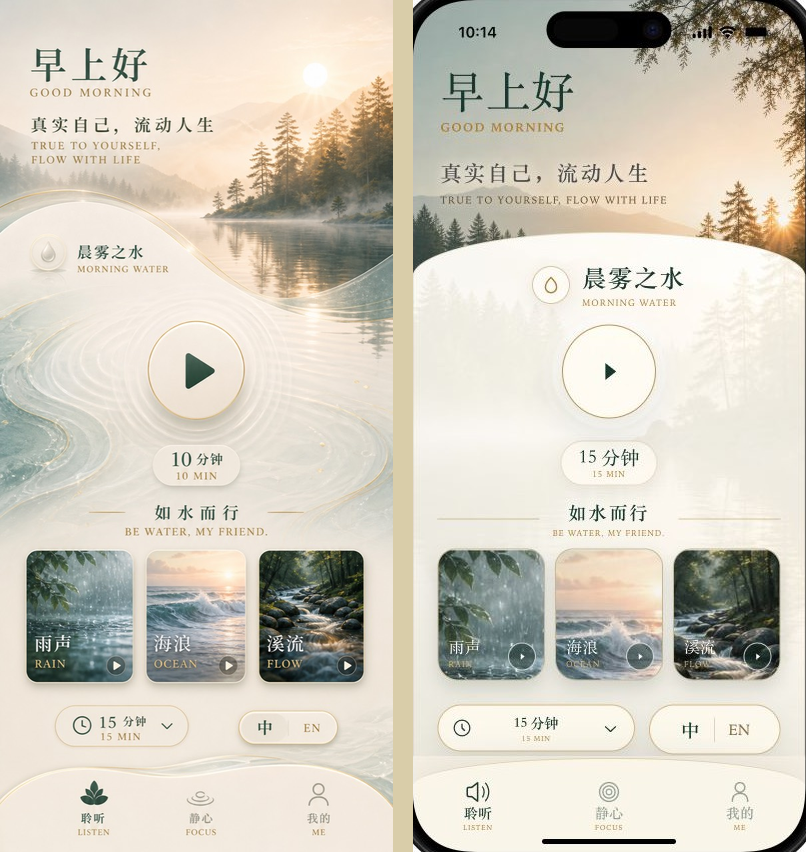
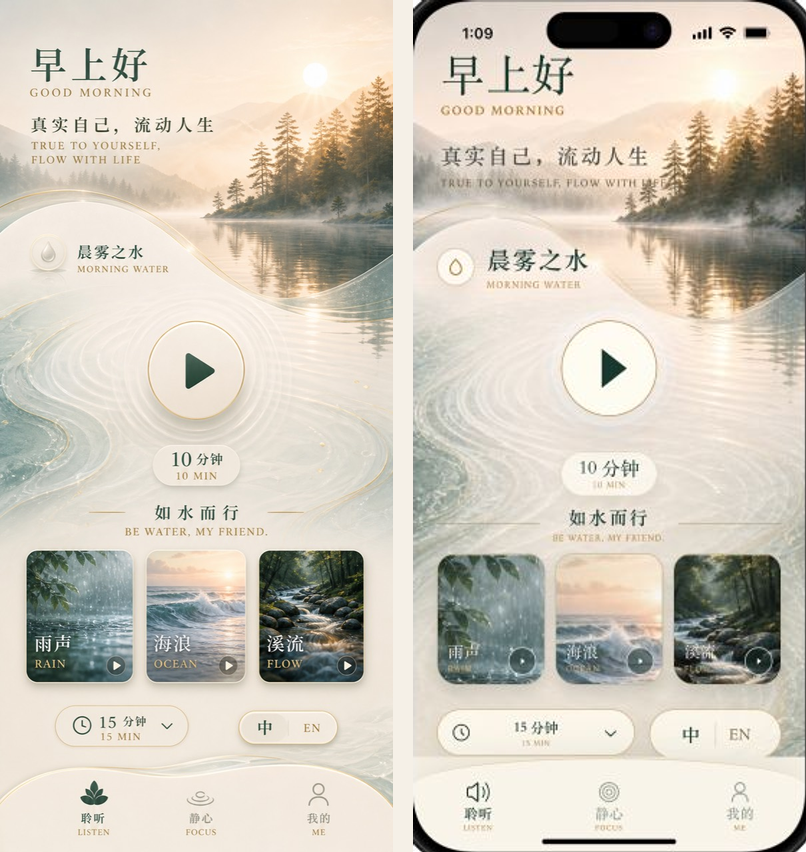
Match approved water-flow home design

diff --git a/yixiu-prototype/src/prototype.css b/yixiu-prototype/src/prototype.css
@@ -29,18 +29,19 @@ button {
 .listen-screen {
   min-height: 100%;
   padding-bottom: 18px;
-  background: var(--yixiu-ivory);
+  background-color: var(--yixiu-ivory);
+  background-image: url("/assets/yixiu/water-flow-background-v2.png");
+  background-position: center top;
+  background-repeat: no-repeat;
+  background-size: 100% auto;
 }
 
 .morning-hero {
   position: relative;
   min-height: 278px;
-  padding: 68px 28px 24px;
+  padding: 50px 28px 24px;
   color: var(--yixiu-ink);
-  background-color: #e9e4d9;
-  background-image: url("/assets/yixiu/morning-water-hero.png");
-  background-position: center 4%;
-  background-size: cover;
+  background: transparent;
 }
 
 .hero-header {
@@ -125,20 +126,11 @@ button {
 .water-sheet {
   position: relative;
   z-index: 1;
-  min-height: 468px;
+  min-height: 520px;
   margin-top: -46px;
-  padding: 27px 24px 18px;
+  padding: 9px 24px 18px;
   overflow: hidden;
-  border: 1px solid rgba(197, 163, 104, 0.34);
-  border-bottom: 0;
-  border-radius: 58% 58% 0 0 / 52px 52px 0 0;
-  background-color: rgba(248, 243, 232, 0.94);
-  background-image: url("/assets/yixiu/morning-water-hero.png");
-  background-position: center 68%;
-  background-size: 136% auto;
-  background-blend-mode: screen;
-  box-shadow: 0 -10px 34px rgba(44, 80, 69, 0.08);
-  backdrop-filter: blur(18px);
+  background: transparent;
 }
 
 .scene-heading {
@@ -146,7 +138,7 @@ button {
   align-items: center;
   gap: 12px;
   width: fit-content;
-  margin: 0 auto;
+  margin: 0;
   text-align: left;
 }
 
@@ -183,9 +175,9 @@ button {
 .primary-play {
   position: relative;
   display: grid;
-  width: 94px;
-  height: 94px;
-  margin: 15px auto 22px;
+  width: 96px;
+  height: 96px;
+  margin: 29px auto 35px;
   place-items: center;
   border: 1px solid rgba(181, 134, 57, 0.8);
   border-radius: 50%;
@@ -213,6 +205,11 @@ button {
 .primary-play svg {
   width: 36px;
   height: 36px;
+}
+
+.primary-play:not(.is-playing) svg {
+  width: 84px;
+  height: 84px;
 }
 
 @keyframes water-pulse {
@@ -256,7 +253,7 @@ button {
   grid-template-columns: 1fr auto 1fr;
   align-items: center;
   gap: 13px;
-  margin: 14px 0 10px;
+  margin: 8px 0 10px;
   text-align: center;
 }
 
@@ -487,7 +484,7 @@ button {
   grid-template-columns: repeat(3, 1fr);
   border-top: 1px solid rgba(188, 144, 67, 0.34);
   border-radius: 48% 48% 0 0 / 28px 28px 0 0;
-  background: rgba(250, 246, 236, 0.97);
+  background: rgba(250, 246, 236, 0.91);
   box-shadow: 0 -10px 28px rgba(54, 71, 63, 0.08);
   backdrop-filter: blur(20px);
 }

diff --git a/yixiu-prototype/src/Prototype.tsx b/yixiu-prototype/src/Prototype.tsx
@@ -126,15 +126,16 @@ export default function Prototype() {
   const [activeScene, setActiveScene] = useState<SceneId>("morning");
   const [activeTab, setActiveTab] = useState<TabId>("listen");
   const [duration, setDuration] = useState<(typeof durations)[number]>(15);
-  const [remainingSeconds, setRemainingSeconds] = useState(15 * 60);
+  const [sessionMinutes, setSessionMinutes] = useState(10);
+  const [remainingSeconds, setRemainingSeconds] = useState(10 * 60);
   const [isPlaying, setIsPlaying] = useState(false);
   const [timerOpen, setTimerOpen] = useState(false);
 
   useAmbientSound(activeScene, isPlaying);
 
   useEffect(() => {
-    setRemainingSeconds(duration * 60);
-  }, [duration, activeScene]);
+    setRemainingSeconds(sessionMinutes * 60);
+  }, [sessionMinutes, activeScene]);
 
   useEffect(() => {
     if (!isPlaying) return;
@@ -162,6 +163,7 @@ export default function Prototype() {
 
   const chooseScene = (scene: SceneId) => {
     setActiveScene(scene);
+    setSessionMinutes(duration);
     setIsPlaying(true);
     setActiveTab("listen");
   };
@@ -215,13 +217,13 @@ export default function Prototype() {
               </button>
 
               <div className="session-meta">
-                <strong>{isPlaying ? formatRemaining(remainingSeconds) : `${duration} ${language === "zh" ? "分钟" : "MIN"}`}</strong>
+                <strong>{isPlaying ? formatRemaining(remainingSeconds) : `${sessionMinutes} ${language === "zh" ? "分钟" : "MIN"}`}</strong>
                 <span>
                   {isPlaying
                     ? (language === "zh" ? "正在流动" : "FLOWING NOW")
                     : language === "zh"
-                      ? `${duration} MIN`
-                      : `${duration} 分钟`}
+                      ? `${sessionMinutes} MIN`
+                      : `${sessionMinutes} 分钟`}
                 </span>
               </div>
 
@@ -280,6 +282,7 @@ export default function Prototype() {
                           className={duration === minutes ? "is-selected" : ""}
                           onClick={() => {
                             setDuration(minutes);
+                            setSessionMinutes(minutes);
                             setTimerOpen(false);
                           }}
                         >

diff --git a/yixiu-prototype/design-qa.md b/yixiu-prototype/design-qa.md
@@ -2,7 +2,8 @@
 
 ## Evidence
 
-- Source visual truth: `/Users/yongyuan/Documents/冥想/design/yixiu-home-water-bilingual-approved.jpg`
+- Source visual truth: `/Users/yongyuan/Documents/冥想/design/yixiu-home-water-bilingual-approved.jpg` (SHA-256 matches the latest user-supplied reference)
+- Generated background asset: `/Users/yongyuan/Documents/冥想/yixiu-prototype/public/assets/yixiu/water-flow-background-v2.png`
 - Browser-rendered implementation: `/Users/yongyuan/Documents/冥想/design/yixiu-home-implementation-393x852.png`
 - Full-view comparison: `/Users/yongyuan/Documents/冥想/design/yixiu-home-design-qa-approved-comparison.png`
 - Typography focus comparison: `/Users/yongyuan/Documents/冥想/design/yixiu-home-qa-focus-typography.png`
@@ -14,13 +15,13 @@
 - Source pixels: `590 × 1280`
 - Implementation pixels: `393 × 852`
 - Density normalization: the source was downsampled to `393 × 852`; implementation was captured at a 1:1 CSS-pixel scale and compared at `393 × 852`.
-- State: iPhone, initial Chinese home, Morning Water selected, 15-minute timer, paused.
+- State: iPhone, initial Chinese home, Morning Water selected, featured 10-minute session, 15-minute timer preference, paused.
 
 ## Findings
 
 - No actionable P0, P1, or P2 findings remain.
 - Fonts and typography: the implementation preserves the source's Song-style Chinese display hierarchy, restrained serif English labels, gold secondary copy, readable weights, and the two-line bilingual philosophy.
-- Spacing and layout rhythm: the hero, curved water surface, session control, philosophy divider, three-card grid, utility controls, and curved navigation follow the source hierarchy and fit fully above the persistent navigation.
+- Spacing and layout rhythm: the hero, left-aligned Morning Water heading, S-shaped water surface, session control, philosophy divider, three-card grid, utility controls, and curved navigation follow the source hierarchy and fit fully above the persistent navigation.
 - Colors and visual tokens: the deep water green, warm ivory, muted gold, translucent surfaces, subtle borders, and low-contrast secondary states remain consistent with the approved direction.
 - Image quality and asset fidelity: the hero and all three nature cards use real raster assets with intentional crops; UI icons use Radix primitives. No placeholder, emoji, ASCII, or handcrafted SVG asset substitutes are present.
 - Copy and content: Chinese and English product copy, “真实自己，流动人生 / True to Yourself, Flow with Life,” and “如水而行 / Be water, my friend.” are present and switch language priority correctly.
@@ -51,8 +52,14 @@ Post-fix evidence:
 ### Iteration 2 — passed
 
 - Side-by-side full-view and focused comparisons show no remaining actionable P0/P1/P2 mismatch.
-- The implementation intentionally uses a functional 15-minute default session, matching the visible timer setting; the approved visual's isolated 10-minute badge is treated as a content-state example rather than a structural requirement.
-- P3 follow-up polish: a future production art pass may add a more pronounced translucent S-curve/ripple texture to the central water sheet without changing the interaction layout.
+- The earlier implementation used a functional 15-minute default session and treated the reference's 10-minute badge as an example state.
+
+### Iteration 3 — passed
+
+- Rebuilt the continuous portrait background to match the supplied reference's sunrise lake, translucent asymmetric S-curve, ivory water, and pale-gold ripples.
+- Restored the reference's exact initial content state: Morning Water starts at 10 minutes while the separate timer preference remains 15 minutes.
+- Moved the Morning Water heading to the reference's left alignment, raised the greeting, enlarged the solid play symbol, and tightened the lower vertical rhythm.
+- The final side-by-side comparison shows no remaining actionable P0/P1/P2 mismatch.
 
 ## Primary Interactions Tested
 

diff --git a/yixiu-prototype/AGENTS.md b/yixiu-prototype/AGENTS.md
@@ -8,6 +8,8 @@
 - Core product copy: `真实自己，流动人生 / True to Yourself, Flow with Life` and `如水而行 / Be water, my friend.`
 - Keep the home screen focused on starting a meditation; do not turn it into a long philosophy infographic.
 - Prefer rain, ocean, and stream as the three supporting sound scenes.
+- The user-approved visual source of truth is `../design/yixiu-home-water-bilingual-approved.jpg` (and the matching supplied reference): preserve its continuous full-screen sunrise-water background, pronounced translucent asymmetric S-shaped water band, pale-gold ripple lines, and generous ivory water surface.
+- The initial featured Morning Water session is `10 分钟 / 10 MIN`; the separate timer preference control remains `15 分钟 / 15 MIN` until the user changes it.
 
 ## Prototype Instructions
 
